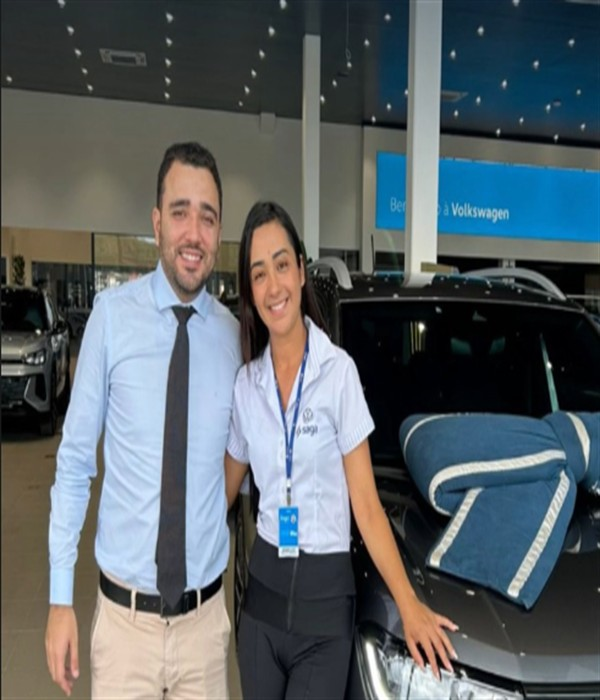
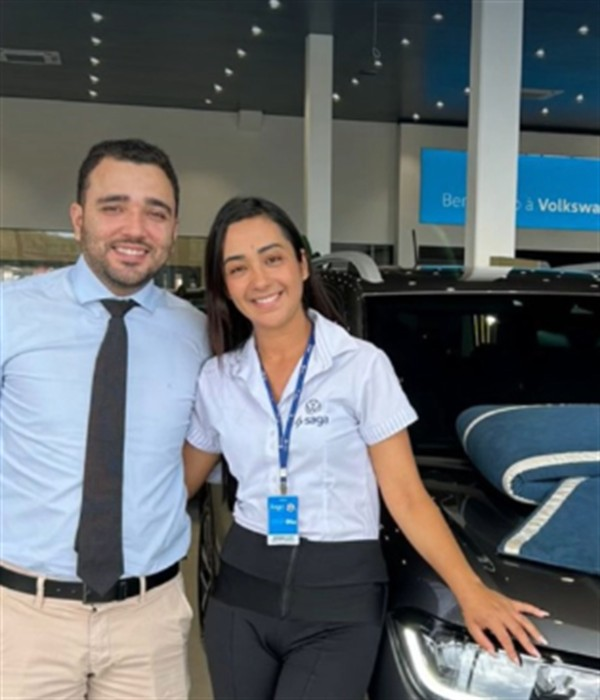
fix(cro): fix delivery photos aspect ratio distortion [CP-012-FIX-ASPECT-RATIO-DELIVERIES]

diff --git a/styles.css b/styles.css
@@ -968,16 +968,17 @@ body {
 
 .delivery-img-wrap {
   width: 100%;
-  height: 310px;
+  height: 350px;
   overflow: hidden;
   position: relative;
-  background: #000;
+  background: var(--vw-dark-navy);
 }
 
 .delivery-img-wrap img {
   width: 100%;
   height: 100%;
   object-fit: cover;
+  object-position: center top;
   transition: transform 0.4s ease;
 }
 

diff --git a/ESTADO.md b/ESTADO.md
@@ -5,14 +5,35 @@
 ---
 
 ## 📌 Estado Atual do Projeto
-- **Versão Atual:** `v3.3-proof-of-delivery`
-- **Último Checkpoint:** `CP-011-PROVA-SOCIAL-DELIVERIES`
+- **Versão Atual:** `v3.4-aspect-ratio-fix`
+- **Último Checkpoint:** `CP-012-FIX-ASPECT-RATIO-DELIVERIES`
 - **Projeto Supabase:** Miriane Alves / Projeto iCooe (`https://jrleyeoubalefjzgudcx.supabase.co`)
-- **Status:** Seção de Prova Social com galeria de 19 fotos de entregas reais tratadas (sem textos de Instagram e com tarjas/badges de proteção nas placas de veículos). Publicado no Surge Cloud.
+- **Status:** Correção de proporção (aspect ratio fit) aplicada a todas as fotos de entregas na galeria de Prova Social. Pessoas e veículos 100% naturais sem distorção ou alongamento vertical. Publicado no Surge Cloud.
 
 ---
 
 ## 📜 Histórico de Checkpoints (Append-Only)
+
+### [CP-012-FIX-ASPECT-RATIO-DELIVERIES] — 24/09/2026
+- **Data/Hora:** 2026-09-24 23:15:00 (UTC-3)
+- **Autor da Autorização:** Usuário (via chat: *"algumas imagens estão esticadas, e ficou ruim"*)
+- **Resumo:**
+  - Recalculado o algoritmo de corte e redimensionamento das fotos de entregas para **preservar a proporção de aspecto natural (Aspect Ratio Fit)** sem esticar ou achatar a imagem.
+  - Ajustado o CSS do contêiner `.delivery-img-wrap img` com `object-fit: cover; object-position: center top;` e altura ajustada de 350px.
+  - Rostos, corpos de clientes, a Consultora Miriane e os carros Volkswagen agora aparecem 100% proporcionais e naturais.
+  - Deploy atualizado publicado no Surge Cloud.
+- **Arquivos Criados/Modificados:**
+  - `assets/deliveries/entrega_01.jpg` até `entrega_19.jpg` [MODIFY]
+  - `styles.css` [MODIFY]
+  - `ESTADO.md` [MODIFY]
+  - `FASES.md` [MODIFY]
+- **Commit/Tag Git:** `v3.4-aspect-ratio-fix`
+- **Instruções de Reversão (Rollback):**
+  ```bash
+  git checkout v3.4-aspect-ratio-fix
+  ```
+
+---
 
 ### [CP-011-PROVA-SOCIAL-DELIVERIES] — 24/09/2026
 - **Data/Hora:** 2026-09-24 23:02:00 (UTC-3)

diff --git a/FASES.md b/FASES.md
@@ -46,4 +46,5 @@
 - [x] Promoção de `traco-1.html` para página principal (`index.html`), mantendo a original em `pagina-original.html`.
 - [x] Tratamento de 19 fotos de entregas de `C:\Users\Cleiton\Pictures\Screenshots` (remoção de textos do Instagram, tarjamento de placas com selo oficial e proporção 600x700px).
 - [x] Inserção da Seção Prova Social: Entregas Realizadas em Brasília no site.
-- [x] Ponto de Restauração: `CP-011-PROVA-SOCIAL-DELIVERIES` (`v3.3-proof-of-delivery`).
+- [x] Otimização matemática de proporção de aspecto (Aspect Ratio Fit) eliminando qualquer distorção visual em fotos de pessoas.
+- [x] Ponto de Restauração: `CP-012-FIX-ASPECT-RATIO-DELIVERIES` (`v3.4-aspect-ratio-fix`).
